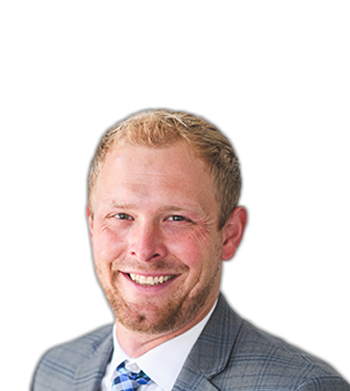
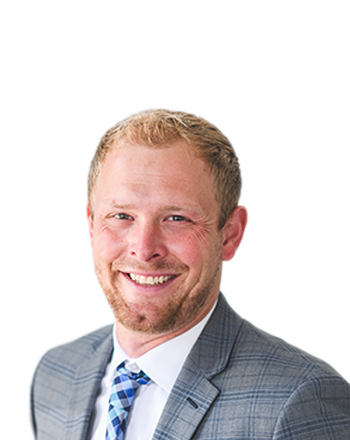
Responsive

Changed region(s): [[0.0571, 0.2455, 1.0, 1.0]]

diff --git a/src/index.css b/src/index.css
@@ -220,7 +220,7 @@ header > div {
   color: var(--black);
   font-weight: 500;
   text-align: left;
-  padding: 0 0 1rem;
+  padding: 0 0 2rem;
   align-self: flex-start;
   width: 100%;
 }
@@ -263,41 +263,26 @@ header > div {
   margin: 0 auto;
   font-size: 1.1rem;
   font-weight: 300;
-  /* letter-spacing: .2rem;
-  line-height: 1.5rem;
-  text-align: justify; */
 }
-
-
 
 .getStarted {
   width: fit-content;
   font-size: .85rem;
   background-color: var(--red);
-  filter: brightness(1);
+  filter: brightness(1.2);
   border-radius: 1rem;
   color: var(--white);
   opacity: 1;
   border: none;
-  padding: 1.5rem 2rem;
+  padding: 1.5rem;
   cursor: pointer;
-  /* box-shadow: 0 0.1rem 0.5rem rgba(0, 0, 0, 0.49); */
   transition: all 0.1s ease-in-out;
   text-decoration: none;
   text-align: center;
-  z-index: 20;
-  margin: 0;
 }
 
 .getStarted:hover {
   filter: brightness(1.1);
-  /* box-shadow: 0 0.2rem 0.5rem rgba(0, 0, 0, 0.49); */
-}
-
-.getStarted p {
-  margin: 1rem 0 0;
-  color: var(--white);
-  font-size: 1.5rem;
 }
 
 .team {
@@ -306,6 +291,7 @@ header > div {
   flex-direction: column;
   align-items: center;
   max-width: 1300px;
+  width: 95%;
   margin: 0 auto;
 }
 
@@ -317,15 +303,15 @@ header > div {
   font-family: "Patua One", cursive;
   font-size: 2rem;
   font-family: "Roboto", sans-serif;
-  text-align: left;
+  text-align: center;
   margin: 0 0 1rem;
   width: 100%;
   opacity: .8;
 }
 
 .teamflex-leader {
-  width: 95%;
-  max-width: 1200px;
+  width: 100%;
+  max-width: 1000px;
   margin: 0 auto;
   display: flex;
   flex-wrap: wrap;
@@ -336,25 +322,24 @@ header > div {
 
 .teamflex-leader-head {
   display: flex;
-  justify-content: center;
-  align-items: center;
+  justify-content: start;
+  align-items: flex-end;
   width: 100%;
   padding: 0 3rem;
-}
-
-.teamflex-leader-head img {
-  margin: 0 10rem;
+  gap: 3rem;
 }
 
 .teamflex-leader-head div {
   display: flex;
   flex-direction: column;
+  min-width: 300px;
 }
 
 .teamflex-leader-head h1 {
   font-size: 3rem;
   margin: .5rem 0;
   padding: 0;
+  text-align: left;
 }
 
 .teamflex-leader-head h3 {
@@ -365,6 +350,10 @@ header > div {
 .teamflex-leader-head a {
   filter: brightness(1.1);
   padding: 1rem 0;
+}
+
+.teamflex-leader-head img {
+  border-radius: 1rem;
 }
 
 .teamflex-leader-text {

diff --git a/src/responsive.css b/src/responsive.css
@@ -2,37 +2,42 @@
   .heroHeroFlex h1 {
     font-size: 2.3rem;
   }
-  }
+}
 
 @media only screen and (max-width: 1100px) {
-.heroHeroFlex {
-  flex-direction: column;
-  align-items: center;
-  justify-content: flex-start;
-  gap: 3rem;
-  margin: 3rem 0;
-}
+  .heroHeroFlex {
+    flex-direction: column;
+    align-items: center;
+    justify-content: flex-start;
+    gap: 3rem;
+    margin: 3rem 0;
+  }
 
-.heroHeroFlex {
-  padding: 0;
-}
+  .hero-left {
+    font-size: 2rem;
+    width: 100%;
+    max-width: 640px;
+    margin-bottom: 2rem;
+  }
 
-.heroFlex h1 {
-  font-size: 2rem;
-    }
+  .heroHeroFlex {
+    padding: 0;
+  }
+
+  .heroFlex h1 {
+    font-size: 2rem;
+  }
 }
 
 @media only screen and (max-width: 850px) {
-  li::before { 
-    content: '•';
+  li::before {
+    content: "•";
     padding-right: 0.4rem;
-  } 
+  }
   ul {
     list-style-position: outside;
-    list-style-type:none;
+    list-style-type: none;
   }
-  
-
 
   .team {
     padding: 1rem 0;
@@ -43,20 +48,24 @@
     padding: 0 1rem;
   }
 
-.teamflex-leader-head {
-  flex-wrap: wrap-reverse;
-  text-align: center;
-}
+  .teamflex-leader-head {
+    flex-wrap: wrap-reverse;
+    align-items: center;
+    justify-content: center;
+    text-align: center;
+  }
 
-.teamflex-leader-head div h1 {
-  text-align: center;
-}
+  .teamflex-leader-head div h1 {
+    text-align: center;
+  }
 
-.teamflex-leader-head img {
-  margin: 0;
-}
+  .teamflex-leader-head img {
+    margin: 0;
+  }
 
-
+  .teamflex-leader-text {
+    column-count: 1;
+  }
 
   .flexWrap div {
     text-align: center;
@@ -120,7 +129,6 @@
   .jobTitle h2,
   .jobTitle h3 {
     text-align: center;
-    
   }
 
   .jobToggle {
@@ -140,14 +148,14 @@
   }
 
   .careersFormWrapper h1 {
-    padding: 2rem .5rem 0;
+    padding: 2rem 0.5rem 0;
   }
   .careersFormWrapper h3 {
-    padding: 1rem .5rem 3rem;
+    padding: 1rem 0.5rem 3rem;
   }
 
   .jobOpenButton {
-    position:static;
+    position: static;
     margin: 3rem 0;
   }
 
@@ -188,8 +196,6 @@
     font-size: 0.8rem;
     padding: 0.5rem;
   }
-
-
 
   .heroHeroFlex h1 {
     font-size: 2rem;
@@ -278,5 +284,4 @@
     padding: 5rem 0 3rem;
     font-weight: 600;
   }
-
 }

diff --git a/src/Hero.js b/src/Hero.js
@@ -23,12 +23,11 @@ function Hero() {
                                     animate={{ opacity: 1}}
                                     transition={{ delay: i * 0.105 }}
                                 >{x}</motion.span>
-                            })}<br /> <h1 style={{padding: '1rem 0'}}> Your Thriving Business <br /> is our Mission </h1></motion.h1>
-                        <motion.div
+                            })}<br /> <h1 style={{padding: '1rem 0'}}> Your thriving business <br /> is our mission </h1></motion.h1>
+                        <a href='#bookForm'
                             layout="position"
-                            onClick={{}}
                             className='getStarted'>Book a free business consultation with Jerry
-                        </motion.div>
+                        </a>
                     </div>
                     <motion.div
                         initial={{ opacity: 0 }}

diff --git a/src/Team.js b/src/Team.js
@@ -61,12 +61,13 @@ function Team() {
                     <img src={teamLeaders[0].img} alt={teamLeaders[0].role} />
                 </div>
                 <div className="teamflex-leader-text">
-                <p>{teamLeaders[0].bio}</p>
+                    <p>{teamLeaders[0].bio}</p>
                 </div>
-                <div>
-                    <BookForm />
-                </div>
+
             </div>
+            
+            <BookForm />
+
             <div className="teamflex">
                 {teamOpen.map((x, i) => (
                     <motion.div

diff --git a/src/BookForm.js b/src/BookForm.js
@@ -40,7 +40,7 @@ export const BookForm = () => {
 
     return (
 
-        <div style={{ width: '100%', borderRadius: '2rem', zIndex: -5, margin: 0, padding: 0, background: 'inherit' }} className="careersFormWrapper bookFormWrapper">
+        <div id="bookForm" style={{ width: '100%', borderRadius: '2rem', margin: 0, padding: 0, background: 'inherit' }} className="careersFormWrapper bookFormWrapper">
             <h1 style={{margin: 0}}>Book now </h1>
             <h3>Book a free business consultation with Jerry!</h3>
 
